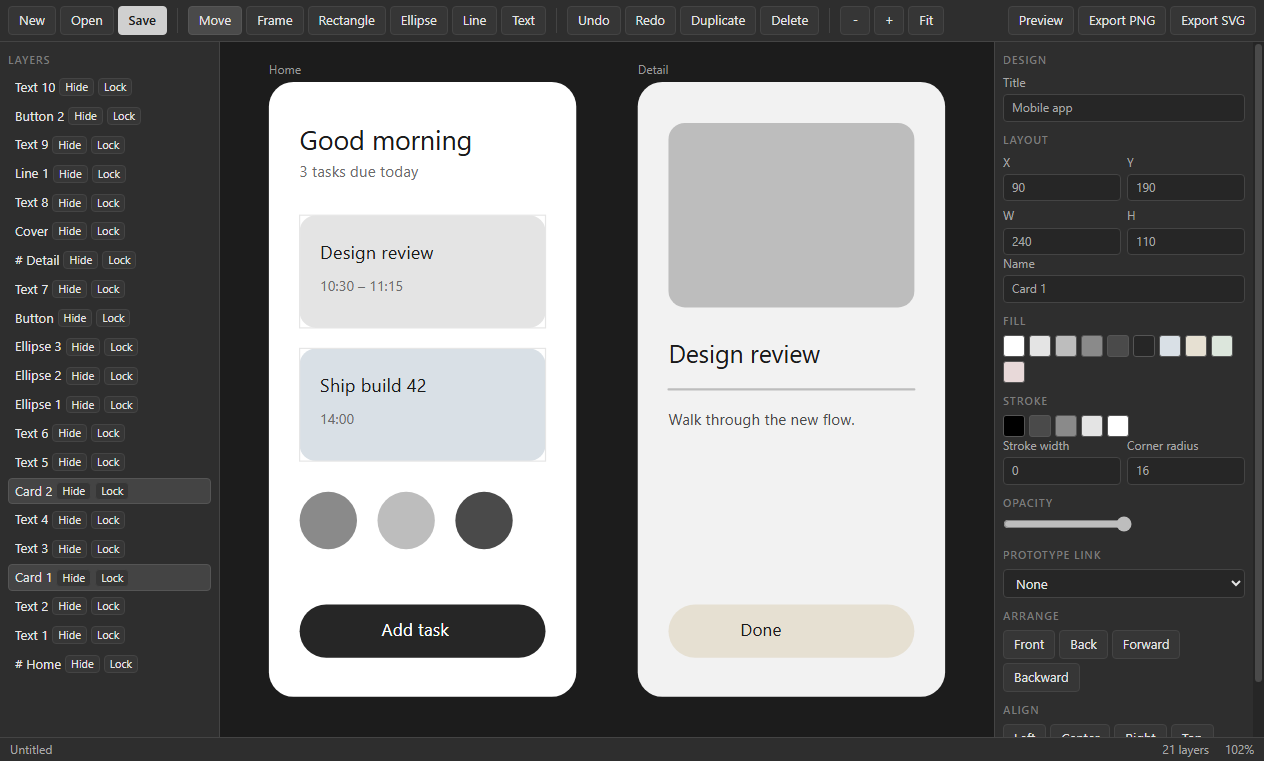
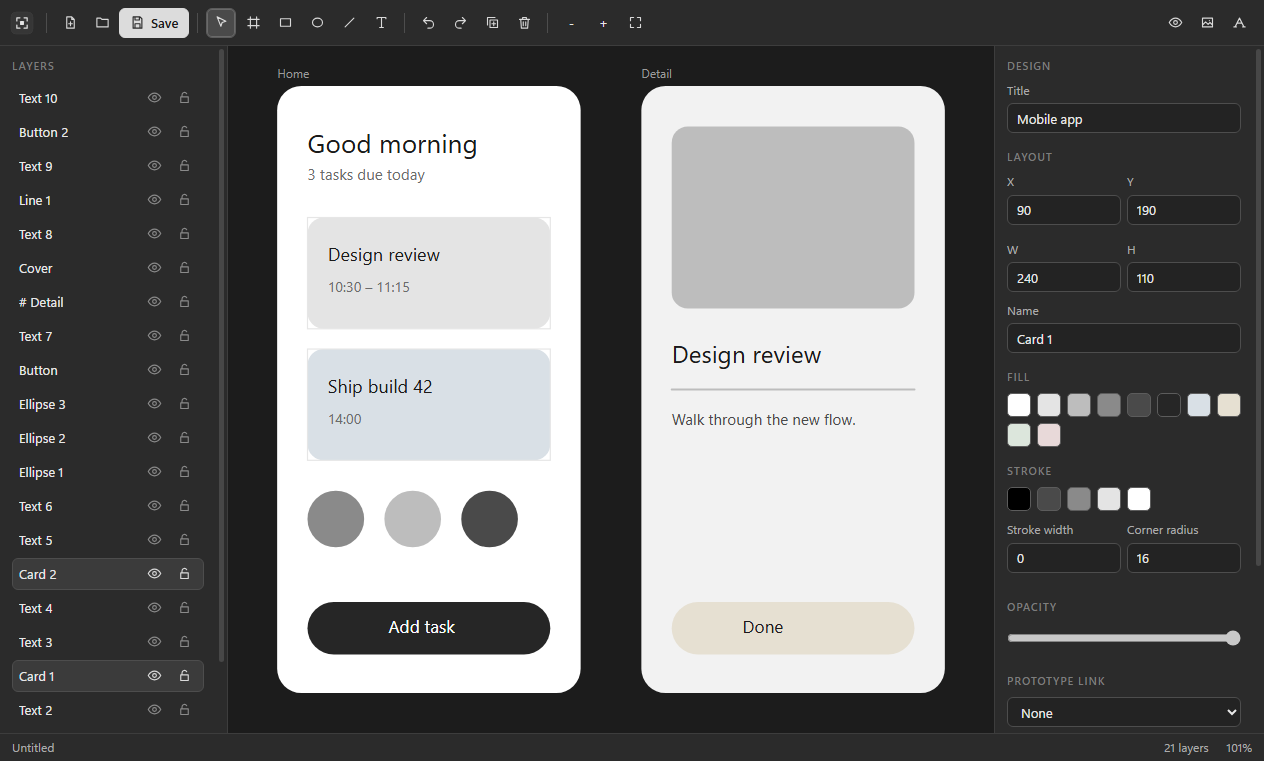
Frameout 1.0.2: refreshed interface
Refreshed interface: line icons on every toolbar button, the app mark in the top bar, consistent control sizes and spacing, tidier side panels, and a toolbar that adapts to smaller windows. Also includes layout fixes and a fuller guide on the project page.

diff --git a/renderer/lookout.css b/renderer/lookout.css
@@ -1,62 +1,119 @@
-/* Lookout gray UI kit: flat, no glow, no gradients, no hue. */
+/* Lookout gray UI kit v2: flat, calm, no hue. Shared by every Lookout app. */
 :root{
-  --bg:#262626; --bg-2:#2e2e2e; --bg-3:#363636; --line:#444; --line-2:#555;
-  --text:#e4e4e4; --text-2:#a8a8a8; --text-3:#7c7c7c;
-  --accent:#d0d0d0; --accent-ink:#1c1c1c; --focus:#9a9a9a;
-  --radius:4px; --font:"Segoe UI",system-ui,-apple-system,sans-serif; --mono:Consolas,"Cascadia Mono",monospace;
+  --bg:#232323; --bg-2:#2b2b2b; --bg-3:#333333; --bg-4:#3b3b3b; --stage:#1c1c1c;
+  --line:#3d3d3d; --line-2:#4d4d4d; --line-3:#5c5c5c;
+  --text:#e8e8e8; --text-2:#ababab; --text-3:#7d7d7d;
+  --accent:#dcdcdc; --accent-ink:#1b1b1b; --focus:#a0a0a0;
+  --radius:6px; --h:30px;
+  --font:"Segoe UI Variable Text","Segoe UI",system-ui,-apple-system,sans-serif; --mono:Consolas,"Cascadia Mono",monospace;
 }
 *{box-sizing:border-box;margin:0;padding:0}
 html,body{height:100%;background:var(--bg);color:var(--text);font:13px/1.45 var(--font);overflow:hidden;user-select:none;-webkit-font-smoothing:antialiased}
 button,input,select,textarea{font:inherit;color:inherit}
 .app{display:grid;grid-template-rows:auto 1fr auto;height:100vh}
-.toolbar{display:flex;align-items:center;gap:4px;padding:6px 8px;background:var(--bg-2);border-bottom:1px solid var(--line);flex-wrap:wrap}
-.toolbar .sep{width:1px;align-self:stretch;background:var(--line);margin:2px 6px}
-.toolbar .grow{flex:1}
-.btn{background:var(--bg-3);border:1px solid var(--line);border-radius:var(--radius);padding:4px 10px;cursor:pointer;white-space:nowrap}
-.btn:hover{background:#404040;border-color:var(--line-2)}
+
+/* ---------- toolbar ---------- */
+.toolbar{display:flex;align-items:center;gap:2px;padding:7px 10px;min-height:46px;background:var(--bg-2);border-bottom:1px solid var(--line);flex-wrap:nowrap;overflow-x:auto;overflow-y:hidden;scrollbar-width:none}
+.toolbar::-webkit-scrollbar{height:0}
+.toolbar>*{flex-shrink:0}
+.toolbar .sep{width:1px;height:20px;align-self:center;background:var(--line-2);margin:0 6px}
+.toolbar .grow{flex:1 1 auto;min-width:8px}
+.toolbar input[type=text],.toolbar input[type=search]{width:170px}
+.brand{display:flex;align-items:center;gap:8px;padding-right:6px;margin-right:4px;font-weight:600;font-size:13px;color:var(--text)}
+.brand img{width:24px;height:24px;border-radius:6px;display:block}
+.brand+.sep{margin-left:0}
+
+/* ---------- buttons ---------- */
+.btn{display:inline-flex;align-items:center;justify-content:center;gap:6px;height:var(--h);padding:0 10px;background:var(--bg-3);border:1px solid var(--line);border-radius:var(--radius);cursor:pointer;white-space:nowrap;line-height:1;transition:background .08s,border-color .08s}
+.btn:hover{background:var(--bg-4);border-color:var(--line-2)}
 .btn:active{background:#2a2a2a}
-.btn:focus-visible,input:focus-visible,select:focus-visible,textarea:focus-visible,[tabindex]:focus-visible{outline:1px solid var(--focus);outline-offset:1px}
+.btn:focus-visible,input:focus-visible,select:focus-visible,textarea:focus-visible,[tabindex]:focus-visible{outline:2px solid var(--focus);outline-offset:1px}
 .btn.primary{background:var(--accent);color:var(--accent-ink);border-color:var(--accent);font-weight:600}
-.btn.primary:hover{background:#e0e0e0}
-.btn.on{background:#4a4a4a;border-color:var(--line-2)}
-.btn[disabled]{opacity:.4;pointer-events:none}
-.btn.icon{padding:4px 8px;min-width:30px;text-align:center}
-input[type=text],input[type=number],input[type=search],select,textarea{background:var(--bg);border:1px solid var(--line);border-radius:var(--radius);padding:4px 8px;user-select:text}
-input[type=range]{accent-color:#bdbdbd}
-input[type=color]{border:1px solid var(--line);background:var(--bg);width:28px;height:24px;padding:1px;border-radius:var(--radius)}
-label.field{display:flex;flex-direction:column;gap:3px;color:var(--text-2);font-size:12px}
-.main{display:flex;min-height:0}
-.sidebar{width:220px;background:var(--bg-2);border-right:1px solid var(--line);overflow:auto;padding:8px;flex-shrink:0}
-.sidebar.right{border-right:0;border-left:1px solid var(--line);width:250px}
-.sidebar h3,.panel-title{font-size:11px;text-transform:uppercase;letter-spacing:.08em;color:var(--text-3);margin:10px 0 6px;font-weight:600}
+.btn.primary:hover{background:#ececec;border-color:#ececec}
+.btn.on{background:#4a4a4a;border-color:var(--line-3);box-shadow:inset 0 0 0 1px #6a6a6a}
+.btn[disabled]{opacity:.38;pointer-events:none}
+.btn.icon{padding:0;width:var(--h);min-width:var(--h)}
+.btn .ic{width:15px;height:15px;flex-shrink:0;display:block;opacity:.92}
+.toolbar .btn:not(.primary):not(.on){background:transparent;border-color:transparent}
+.toolbar .btn:not(.primary):not(.on):hover{background:var(--bg-4);border-color:var(--line-2)}
+
+.toolbar.c1 .btn.minor:not(.primary):has(> svg.ic),.toolbar.c2 .btn:not(.primary):has(> svg.ic),.toolbar.c3 .btn:has(> svg.ic){font-size:0;gap:0;width:var(--h);padding:0}
+.toolbar.c2 .brand span{display:none}
+.toolbar.c2 input[type=text],.toolbar.c2 input[type=search]{width:120px}
+
+/* ---------- fields ---------- */
+input[type=text],input[type=number],input[type=search],input[type=date],select,textarea{background:var(--bg);border:1px solid var(--line-2);border-radius:var(--radius);padding:0 9px;height:var(--h);user-select:text;min-width:0}
+textarea{height:auto;padding:7px 9px;resize:vertical;line-height:1.45}
+select{padding-right:6px;cursor:pointer}
+input:hover,select:hover,textarea:hover{border-color:var(--line-3)}
+input[type=range]{accent-color:#c8c8c8;height:var(--h)}
+input[type=checkbox]{accent-color:#c8c8c8;width:15px;height:15px;cursor:pointer}
+input[type=color]{border:1px solid var(--line-2);background:var(--bg);width:30px;height:var(--h);padding:2px;border-radius:var(--radius)}
+label.field{display:flex;flex-direction:column;gap:4px;color:var(--text-2);font-size:12px}
+label.field>input,label.field>select,label.field>textarea{width:100%;color:var(--text);font-size:13px}
+
+/* ---------- layout ---------- */
+.main{display:flex;min-height:0;min-width:0}
+.sidebar{width:228px;background:var(--bg-2);border-right:1px solid var(--line);overflow:auto;padding:10px 12px 14px;flex-shrink:0}
+.sidebar.right{border-right:0;border-left:1px solid var(--line);width:272px}
+.sidebar h3,.panel-title{font-size:11px;text-transform:uppercase;letter-spacing:.08em;color:var(--text-3);margin:16px 0 8px;font-weight:600}
 .sidebar h3:first-child{margin-top:2px}
-.stage{flex:1;min-width:0;min-height:0;position:relative;background:#1f1f1f;overflow:auto}
-.status{display:flex;gap:16px;align-items:center;padding:3px 10px;background:var(--bg-2);border-top:1px solid var(--line);color:var(--text-2);font-size:12px}
+.sidebar input[type=text],.sidebar input[type=search],.sidebar select,.sidebar textarea{width:100%}
+.sidebar .row{flex-wrap:wrap}
+.sidebar .row>.btn{flex:1 1 auto}
+.sidebar .row>label.field{flex:1 1 0;min-width:0}
+.sidebar label.field{margin-bottom:10px}
+.sidebar .btn{width:auto}
+.sidebar>.btn{width:100%;margin-bottom:6px}
+.stage{flex:1;min-width:0;min-height:0;position:relative;background:var(--stage);overflow:auto}
+.status{display:flex;gap:18px;align-items:center;height:28px;padding:0 12px;background:var(--bg-2);border-top:1px solid var(--line);color:var(--text-2);font-size:12px;white-space:nowrap;overflow:hidden}
 .status .grow{flex:1}
 .list{display:flex;flex-direction:column;gap:2px}
-.list .item{padding:5px 8px;border-radius:var(--radius);cursor:pointer;border:1px solid transparent;display:flex;gap:6px;align-items:center}
+.list .item{padding:6px 8px;border-radius:var(--radius);cursor:pointer;border:1px solid transparent;display:flex;gap:6px;align-items:center;min-height:30px}
 .list .item:hover{background:var(--bg-3)}
-.list .item.sel{background:#444;border-color:var(--line-2)}
+.list .item.sel{background:var(--bg-4);border-color:var(--line-2)}
 .row{display:flex;gap:6px;align-items:center}
+.grow{flex:1 1 auto;min-width:0}
+.brow{display:grid;grid-template-columns:1fr 1fr;gap:6px;margin-bottom:6px}
+.brow>.btn{justify-content:flex-start}
+.frow{display:flex;align-items:center;gap:8px;margin-bottom:8px;color:var(--text-2)}
+.frow>input[type=text],.frow>input[type=number]{flex:1;color:var(--text)}
+.frow>span:first-child{min-width:44px}
+.frow>select{flex:1;min-width:0}
+.sidebar input[type=range]{width:100%}
+.sidebar .swatches{margin-bottom:10px}
+.list .item .btn{height:24px!important;width:26px!important;padding:0!important;font-size:0!important;gap:0;background:transparent;border-color:transparent;opacity:.55}
+.list .item:hover .btn,.list .item.sel .btn{opacity:1}
+.list .item .btn:hover{background:var(--bg-4);border-color:var(--line-2)}
 .col{display:flex;flex-direction:column;gap:6px}
 .muted{color:var(--text-2)}
-.empty{position:absolute;inset:0;display:flex;flex-direction:column;align-items:center;justify-content:center;gap:10px;color:var(--text-3);text-align:center;padding:20px}
-.empty .big{font-size:18px;color:var(--text-2)}
-.modal-back{position:fixed;inset:0;background:rgba(0,0,0,.55);display:flex;align-items:center;justify-content:center;z-index:50}
-.modal{background:var(--bg-2);border:1px solid var(--line-2);border-radius:6px;min-width:340px;max-width:80vw;max-height:85vh;overflow:auto;padding:16px;display:flex;flex-direction:column;gap:12px}
-.modal h2{font-size:15px;font-weight:600}
-.toast{position:fixed;left:50%;bottom:34px;transform:translateX(-50%);background:var(--bg-3);border:1px solid var(--line-2);padding:7px 14px;border-radius:var(--radius);z-index:60}
-.progress{height:6px;background:var(--bg);border:1px solid var(--line);border-radius:3px;overflow:hidden}
-.progress>i{display:block;height:100%;background:var(--accent);width:0}
-table.grid{border-collapse:collapse;width:100%}
-table.grid th,table.grid td{border:1px solid var(--line);padding:4px 8px;text-align:left}
-table.grid th{background:var(--bg-2);color:var(--text-2);font-weight:600}
-::-webkit-scrollbar{width:11px;height:11px}
-::-webkit-scrollbar-thumb{background:#4a4a4a;border:2px solid var(--bg);border-radius:6px}
-::-webkit-scrollbar-track{background:var(--bg)}
-.swatches{display:flex;flex-wrap:wrap;gap:4px}
-.swatches button{width:22px;height:22px;border:1px solid var(--line-2);border-radius:3px;cursor:pointer;padding:0}
-.swatches button.on{outline:2px solid var(--accent);outline-offset:1px}
-.progress>div{display:block;height:100%;background:var(--accent)}
-table.grid tr.sel td{background:#3a3a3a}
+.empty{position:absolute;inset:0;display:flex;flex-direction:column;align-items:center;justify-content:center;gap:12px;color:var(--text-3);text-align:center;padding:24px}
+.empty .big{font-size:18px;color:var(--text-2);font-weight:600}
+
+/* ---------- overlays ---------- */
+.modal-back{position:fixed;inset:0;background:rgba(0,0,0,.6);display:flex;align-items:center;justify-content:center;z-index:50}
+.modal{background:var(--bg-2);border:1px solid var(--line-2);border-radius:10px;min-width:360px;max-width:80vw;max-height:85vh;overflow:auto;padding:20px;display:flex;flex-direction:column;gap:14px;box-shadow:0 18px 50px rgba(0,0,0,.5)}
+.modal h2{font-size:16px;font-weight:600}
+.toast{position:fixed;left:50%;bottom:40px;transform:translateX(-50%);background:var(--bg-4);border:1px solid var(--line-3);padding:9px 16px;border-radius:8px;z-index:60;box-shadow:0 8px 24px rgba(0,0,0,.4)}
+.progress{height:6px;background:var(--bg);border:1px solid var(--line);border-radius:4px;overflow:hidden}
+.progress>i,.progress>div{display:block;height:100%;background:var(--accent);width:0}
+
+/* ---------- tables ---------- */
+table.grid{border-collapse:separate;border-spacing:0;width:100%}
+table.grid th,table.grid td{border-bottom:1px solid var(--line);padding:0 12px;height:38px;text-align:left;vertical-align:middle}
+table.grid th{background:var(--bg-2);color:var(--text-2);font-weight:600;font-size:12px;position:sticky;top:0;z-index:1;height:34px}
+table.grid tbody tr:hover td{background:#262626}
+table.grid tr.sel td{background:#353535}
 table.grid tbody tr{cursor:default}
+table.grid td .btn{height:26px;margin-left:8px;vertical-align:middle}
+table.grid td{white-space:nowrap}
+
+/* ---------- misc ---------- */
+::-webkit-scrollbar{width:11px;height:11px}
+::-webkit-scrollbar-thumb{background:#474747;border:3px solid transparent;background-clip:padding-box;border-radius:8px}
+::-webkit-scrollbar-thumb:hover{background:#5a5a5a;background-clip:padding-box;border:3px solid transparent}
+::-webkit-scrollbar-track,::-webkit-scrollbar-corner{background:transparent}
+.swatches{display:flex;flex-wrap:wrap;gap:6px}
+.swatches button{width:24px;height:24px;border:1px solid var(--line-3);border-radius:5px;cursor:pointer;padding:0}
+.swatches button.on{outline:2px solid var(--accent);outline-offset:2px}
+kbd{font-family:var(--mono);font-size:11px;background:var(--bg-3);border:1px solid var(--line-2);border-bottom-width:2px;border-radius:4px;padding:0 5px}

diff --git a/renderer/kit.js b/renderer/kit.js
@@ -1,0 +1,137 @@
+// Lookout UI kit: adds the app mark to the toolbar and monochrome line icons to buttons.
+// Purely visual. Buttons keep their text, so nothing else changes.
+(function () {
+  'use strict';
+  const NS = 'http://www.w3.org/2000/svg';
+  const P = {
+    plus: 'M12 5v14M5 12h14',
+    file: 'M14 3H6v18h12V7zM14 3v4h4M12 11v6M9 14h6',
+    folder: 'M3 7V5h6l2 2h10v12H3z',
+    save: 'M5 3h11l3 3v15H5zM8 3v5h7V3M8 21v-7h8v7',
+    saveas: 'M5 3h11l3 3v6M5 3v18h7M8 3v5h7V3M15 21l6-6-2-2-6 6v2z',
+    undo: 'M9 14L4 9l5-5M4 9h10a6 6 0 010 12h-3',
+    redo: 'M15 14l5-5-5-5M20 9H10a6 6 0 000 12h3',
+    trash: 'M4 7h16M10 11v6M14 11v6M6 7l1 14h10l1-14M9 7V4h6v3',
+    copy: 'M9 9h11v11H9zM5 15H4V4h11v1',
+    paste: 'M9 4h6v3H9zM8 5H5v16h14V5h-3',
+    dup: 'M8 8h12v12H8zM4 16V4h12M14 11v6M11 14h6',
+    download: 'M12 4v11M7 10l5 5 5-5M5 20h14',
+    fit: 'M4 9V4h5M15 4h5v5M20 15v5h-5M9 20H4v-5',
+    play: 'M7 4l13 8-13 8z',
+    stop: 'M6 6h12v12H6z',
+    pause: 'M7 5h3v14H7zM14 5h3v14h-3z',
+    rec: 'M12 5a7 7 0 100 14 7 7 0 000-14z',
+    scissors: 'M6 9a3 3 0 100-6 3 3 0 000 6zM6 21a3 3 0 100-6 3 3 0 000 6zM8.2 7.8L20 19M8.2 16.2L20 5',
+    pointer: 'M5 3l14 7-6 2-2 6z',
+    hand: 'M8 13V6a1.5 1.5 0 013 0v5M11 11V4.5a1.5 1.5 0 013 0V11M14 11V6a1.5 1.5 0 013 0v8a7 7 0 01-7 7 6 6 0 01-5-3l-2.5-4.5a1.5 1.5 0 012.6-1.5L8 15',
+    connector: 'M5 19L19 5M13 5h6v6',
+    frame: 'M7 3v18M17 3v18M3 7h18M3 17h18',
+    rect: 'M4 6h16v12H4z',
+    ellipse: 'M12 5c4.4 0 8 3.1 8 7s-3.6 7-8 7-8-3.1-8-7 3.6-7 8-7z',
+    line: 'M5 19L19 5',
+    text: 'M5 6V4h14v2M12 4v16M9 20h6',
+    highlight: 'M14 4l6 6-8 8H6v-6zM4 21h16',
+    pen: 'M4 20l4-1 11-11-3-3L5 16zM14 7l3 3',
+    redact: 'M4 8h16v8H4z',
+    sign: 'M3 17c3-6 5-9 7-9 3 0-2 9 1 9 2 0 3-3 5-3s1 3 5 3M3 21h18',
+    eraser: 'M8 20l-4-4 10-10 6 6-10 8zM12 20h8',
+    search: 'M11 4a7 7 0 100 14 7 7 0 000-14zM16 16l5 5',
+    list: 'M9 6h11M9 12h11M9 18h11M4 6h.01M4 12h.01M4 18h.01',
+    child: 'M5 4v8a3 3 0 003 3h11M15 11l4 4-4 4',
+    sibling: 'M5 6h14M5 12h14M12 15v6M9 18h6',
+    collapse: 'M6 9l6 6 6-6',
+    expand: 'M7 14l5-5 5 5',
+    calendar: 'M4 6h16v14H4zM4 10h16M8 3v5M16 3v5',
+    diamond: 'M12 3l9 9-9 9-9-9z',
+    up: 'M12 19V5M6 11l6-6 6 6',
+    down: 'M12 5v14M6 13l6 6 6-6',
+    refresh: 'M20 11a8 8 0 10-2.3 5.7M20 4v7h-7',
+    check: 'M4 12l5 5L20 6',
+    convert: 'M4 8h13M13 4l4 4-4 4M20 16H7M11 12l-4 4 4 4',
+    eye: 'M2 12s4-7 10-7 10 7 10 7-4 7-10 7S2 12 2 12zM12 9a3 3 0 100 6 3 3 0 000-6z',
+    info: 'M12 3a9 9 0 100 18 9 9 0 000-18zM12 11v6M12 7.5h.01',
+    front: 'M8 8h12v12H8zM4 4h10v3M4 4v10h3',
+    back: 'M4 4h12v12H4zM20 8v12H8v-4',
+    merge: 'M6 3v6a6 6 0 006 6h6M15 12l3 3-3 3M6 21v-4',
+    rotl: 'M4 10a8 8 0 112 6M4 4v6h6',
+    rotr: 'M20 10a8 8 0 10-2 6M20 4v6h-6',
+    blank: 'M6 3h12v18H6z',
+    extract: 'M14 3H6v18h12V7zM14 3v4h4M12 10v7M9 14l3 3 3-3',
+    mic: 'M12 3a3 3 0 00-3 3v6a3 3 0 006 0V6a3 3 0 00-3-3zM6 11a6 6 0 0012 0M12 17v4',
+    clear: 'M6 6l12 12M18 6L6 18',
+    gaps: 'M3 6v12M21 6v12M7 12h10M10 9l-3 3 3 3M14 9l3 3-3 3',
+    title: 'M4 5h16v14H4zM8 9h8M12 9v7',
+    dashed: 'M4 12h3M10 12h4M17 12h3',
+    arrow: 'M4 12h15M14 7l5 5-5 5',
+    elbow: 'M4 6h8v12h8',
+    label: 'M3 12l6-7h12v14H9zM8 12h.01',
+    image: 'M4 5h16v14H4zM4 16l5-5 4 4 3-3 4 4M15 9h.01',
+    vector: 'M5 19L12 5l7 14M8 13h8M3 19h4M17 19h4',
+    table: 'M4 5h16v14H4zM4 10h16M4 15h16M10 5v14',
+    lock: 'M6 11h12v9H6zM8 11V8a4 4 0 018 0v3',
+    unlock: 'M6 11h12v9H6zM8 11V8a4 4 0 017.5-2',
+    eyeoff: 'M3 3l18 18M10.6 6.1A10 10 0 0112 6c6 0 10 6 10 6a17 17 0 01-3 3.6M6.6 6.6C3.8 8.3 2 12 2 12s4 7 10 7a9.7 9.7 0 004.4-1',
+  };
+  const MAP = {
+    'New': 'file', 'Open': 'folder', 'Open project': 'folder', 'Open file': 'folder', 'Save': 'save', 'Save project': 'save', 'Save as': 'saveas',
+    'Undo': 'undo', 'Redo': 'redo', 'Delete': 'trash', 'Delete clip': 'trash', 'Remove selected': 'trash', 'Copy': 'copy', 'Paste': 'paste', 'Duplicate': 'dup',
+    'Export PNG': 'image', 'Export SVG': 'vector', 'Export CSV': 'table', 'Export': 'download', 'Export page as PNG': 'download', 'Extract all text': 'text',
+    'Fit': 'fit', 'Play': 'play', 'Stop': 'stop', 'Pause': 'pause', 'Resume': 'play', 'Record': 'rec', 'Split': 'scissors', 'Split here': 'scissors',
+    'Select': 'pointer', 'Move': 'pointer', 'Hand': 'hand', 'Connector': 'connector', 'Frame': 'frame', 'Rectangle': 'rect', 'Box': 'rect', 'Ellipse': 'ellipse', 'Line': 'line', 'Text': 'text',
+    'Highlight': 'highlight', 'Pen': 'pen', 'Redact': 'redact', 'Sign': 'sign', 'Erase': 'eraser', 'Preview': 'eye', 'Outline': 'list',
+    'Add child': 'child', 'Add sibling': 'sibling', 'Edit': 'pen', 'Collapse': 'collapse', 'Expand all': 'expand', 'Today': 'calendar',
+    'Add task': 'plus', 'Add milestone': 'diamond', 'Move up': 'up', 'Move down': 'down', 'Up': 'up', 'Down': 'down',
+    'Import media': 'plus', 'Add files': 'plus', 'Output folder': 'folder', 'Convert all': 'convert', 'Clear finished': 'clear', 'Show': 'folder', 'Show in folder': 'folder',
+    'Check file': 'check', 'Repair to new file': 'download', 'Refresh sources': 'refresh', 'Start recording': 'rec', 'Stop and review': 'stop', 'New recording': 'rec',
+    'Check for updates': 'refresh', 'Info': 'info', 'Merge': 'merge', 'Rotate L': 'rotl', 'Rotate R': 'rotr', 'Blank': 'blank', 'Extract': 'extract',
+    'Front': 'front', 'Back': 'back', 'Close gaps': 'gaps', 'Title text': 'title', 'Dashed': 'dashed', 'Arrow on/off': 'arrow', 'Straight / Elbow': 'elbow', 'Edit label': 'label',
+    'Cut': 'scissors', 'Trim to selection': 'fit', 'Locate missing files': 'search',
+  };
+  const LMAP = { 'Hide': 'eye', 'Show': 'eyeoff', 'Lock': 'unlock', 'Unlock': 'lock' };
+  function icon(name) {
+    const s = document.createElementNS(NS, 'svg');
+    s.setAttribute('viewBox', '0 0 24 24'); s.setAttribute('class', 'ic'); s.setAttribute('aria-hidden', 'true');
+    s.setAttribute('fill', 'none'); s.setAttribute('stroke', 'currentColor'); s.setAttribute('stroke-width', '1.8');
+    s.setAttribute('stroke-linecap', 'round'); s.setAttribute('stroke-linejoin', 'round');
+    const p = document.createElementNS(NS, 'path'); p.setAttribute('d', P[name]); s.append(p);
+    return s;
+  }
+  function decorate(b) {
+    if (b.tagName !== 'BUTTON' || !b.classList.contains('btn')) return;
+    const label = (b.textContent || '').trim();
+    const name = (b.closest('.list') && LMAP[label]) || MAP[label];
+    const cur = b.querySelector(':scope > svg.ic');
+    if (cur && cur.dataset.for === label) return;
+    if (cur) cur.remove();
+    if (!name) return;
+    const s = icon(name); s.dataset.for = label; b.prepend(s);
+    if (!b.title) b.title = label;
+  }
+  function brand(bar) {
+    if (!bar || bar.querySelector(':scope > .brand') || (document.title && (bar.textContent || '').includes(document.title))) return;
+    const name = document.title || '';
+    const d = document.createElement('div'); d.className = 'brand';
+    const img = document.createElement('img'); img.src = 'brand.svg'; img.alt = '';
+    const t = document.createElement('span'); t.textContent = name;
+    d.append(img, t);
+    const sep = document.createElement('span'); sep.className = 'sep';
+    bar.prepend(d, sep);
+  }
+  const MINOR = new Set(['New', 'Open', 'Undo', 'Redo', 'Copy', 'Paste', 'Duplicate', 'Delete', 'Front', 'Back', 'Fit', 'Hand', 'Merge', 'Move up', 'Move down', 'Today', 'Cut', 'Dashed', 'Arrow on/off', 'Straight / Elbow', 'Edit label', 'Output folder', 'Remove selected', 'Clear finished', 'Refresh sources', 'Stop', 'Collapse', 'Expand all', 'Select', 'Move']);
+  function fitBar(bar) {
+    bar.classList.remove('c1', 'c2', 'c3');
+    bar.querySelectorAll(':scope > .btn').forEach((b) => b.classList.toggle('minor', MINOR.has((b.textContent || '').trim())));
+    for (const c of ['c1', 'c2', 'c3']) { if (bar.scrollWidth <= bar.clientWidth + 1) break; bar.classList.add(c); }
+  }
+  window.addEventListener('resize', () => { const bar = document.querySelector('.app > .toolbar'); if (bar) fitBar(bar); });
+  let queued = false;
+  function sweep() {
+    queued = false;
+    document.querySelectorAll('.btn').forEach(decorate);
+    const bar = document.querySelector('.app > .toolbar');
+    if (bar && bar.children.length) { brand(bar); fitBar(bar); }
+  }
+  const mo = new MutationObserver(() => { if (!queued) { queued = true; requestAnimationFrame(sweep); } });
+  function start() { mo.observe(document.body, { childList: true, subtree: true, characterData: true }); sweep(); }
+  if (document.readyState === 'loading') document.addEventListener('DOMContentLoaded', start); else start();
+})();

diff --git a/renderer/index.html b/renderer/index.html
@@ -10,6 +10,7 @@
 </head>
 <body>
 <div class="app" id="app"></div>
+<script src="kit.js"></script>
 <script src="app.js"></script>
 </body>
 </html>

diff --git a/README.md b/README.md
@@ -1,6 +1,6 @@
 <p align="center"><img src="screenshots/banner.png" alt="Frameout" width="100%"></p>
 
-<p align="center"><b>Screen design and prototypes</b><br>Version 1.0.1 for Windows · Free · Offline · No account</p>
+<p align="center"><b>Screen design and prototypes</b><br>Version 1.0.2 for Windows · Free · Offline · No account</p>
 
 <p align="center"><a href="https://github.com/plawanpawin-byte/frameout/releases/latest"><b>Download Frameout</b></a> · <a href="https://github.com/plawanpawin-byte/Lookout">All Lookout apps</a></p>
 
@@ -11,6 +11,12 @@ Frameout is a canvas for designing app screens and web pages. Draw a frame for e
 **Made for:** Designers, developers and founders who need a quick, private place to sketch interfaces.
 
 ![Frameout](screenshots/01-canvas.png)
+
+**On this page:** [Screenshots](#see-it-in-action) · [Interface](#the-interface) · [Features](#everything-it-can-do) · [How to use it](#how-to-use-it) · [Shortcuts](#keyboard-shortcuts) · [Formats](#files-and-formats) · [Privacy](#private-by-design) · [Install](#install) · [Questions](#questions)
+
+## What is new in 1.0.2
+
+A refreshed interface: every toolbar button now has a clear line icon, the app's mark sits at the top left, controls share one height and spacing, panels line up in tidy grids, and the toolbar keeps every button reachable on smaller windows by switching less important buttons to icons.
 
 ## See it in action
 
@@ -43,6 +49,12 @@ Select a frame and export it as a crisp PNG.
 ![Exported detail screen](screenshots/05-exported-detail-screen.png)
 
 Each frame exports on its own, so one file can hold a whole app.
+
+## The interface
+
+- **Top bar:** file buttons, the drawing tools (Move, Frame, Rectangle, Ellipse, Line, Text), undo, redo, duplicate, delete, zoom, Preview and Export PNG / SVG.
+- **Left panel:** every layer by name, with show/hide and lock buttons.
+- **Right panel:** position, size, name, fill, stroke, corner radius, opacity, prototype link and arrange controls of the selection.
 
 ## Everything it can do
 
@@ -124,5 +136,15 @@ No. Everything runs offline.
 ## About Lookout
 
 Frameout belongs to the **[Lookout](https://github.com/plawanpawin-byte/Lookout)** family: ten small, private Windows apps for documents and media, all with the same calm grey look and the same promise that your files stay yours. Install and update them together with the [Lookout launcher](https://github.com/plawanpawin-byte/lookout-launcher).
+
+- **[Pageout](https://github.com/plawanpawin-byte/pageout)**: read, annotate and sign pdfs
+- **[Chartout](https://github.com/plawanpawin-byte/chartout)**: flowcharts and diagrams
+- **[Branchout](https://github.com/plawanpawin-byte/branchout)**: mind maps and outlines
+- **[Planout](https://github.com/plawanpawin-byte/planout)**: plans and gantt timelines
+- **[Cutout](https://github.com/plawanpawin-byte/cutout)**: video editing on a timeline
+- **[Shiftout](https://github.com/plawanpawin-byte/shiftout)**: convert and compress media
+- **[Castout](https://github.com/plawanpawin-byte/castout)**: record your screen
+- **[Mendout](https://github.com/plawanpawin-byte/mendout)**: repair damaged media
+- **[Tuneout](https://github.com/plawanpawin-byte/tuneout)**: record and edit audio
 
 Released under the MIT License.
